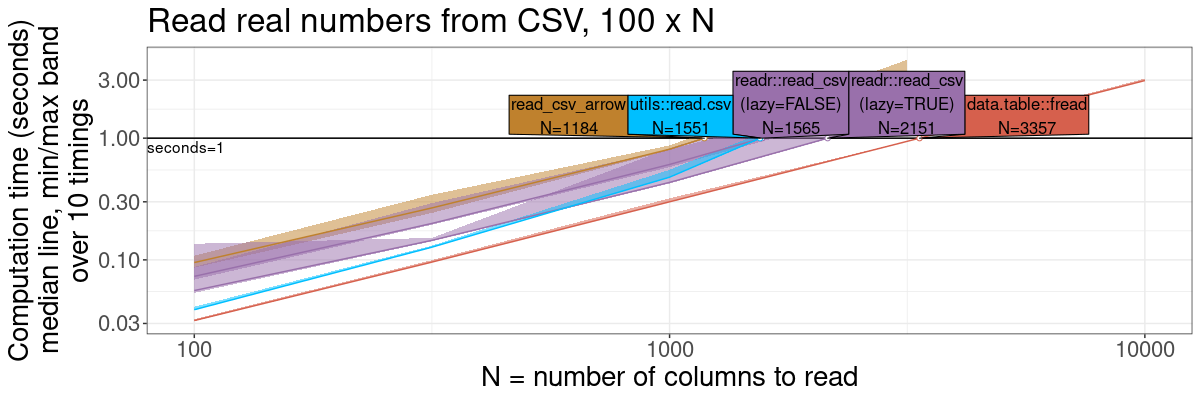
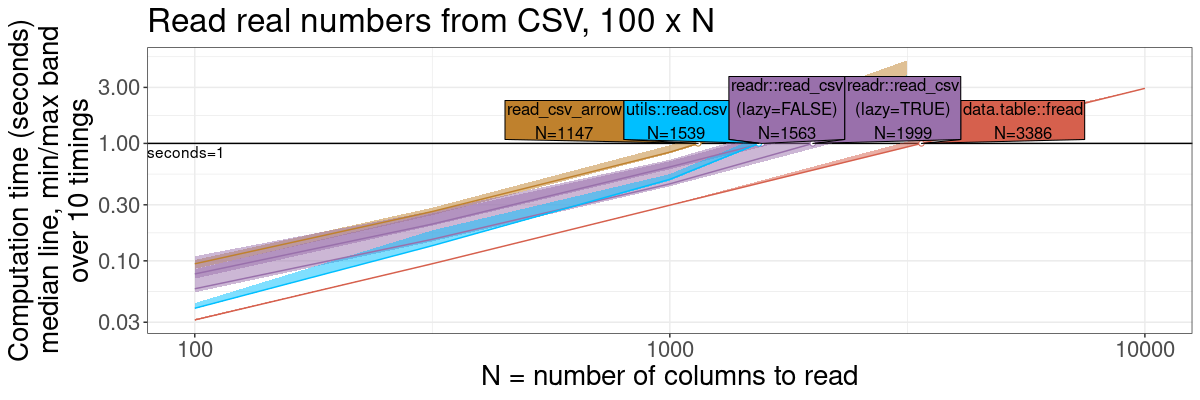
collapse comparison

diff --git a/_posts/2023-10-08-dt-atime-figures.md b/_posts/2023-10-08-dt-atime-figures.md
@@ -24,6 +24,7 @@ write.colors <- c(
   "utils::write.csv"="deepskyblue")
 n.rows <- 100
 seconds.limit <- 1
+
 atime.write.vary.cols <- atime::atime(
   N=as.integer(10^seq(2, 6, by=0.5)),
   setup={
@@ -43,6 +44,13 @@ atime.write.vary.cols <- atime::atime(
     readr::write_csv(input.df, tempfile(), progress = FALSE)
   },
   "utils::write.csv"=utils::write.csv(input.df, tempfile()))
+```
+
+```
+## Warning: Some expressions had a GC in every iteration; so filtering is disabled.
+```
+
+```r
 refs.write.vary.cols <- atime::references_best(atime.write.vary.cols)
 pred.write.vary.cols <- predict(refs.write.vary.cols)
 
@@ -74,24 +82,6 @@ gg.write
 ```
 
 ![plot of chunk write](/assets/img/2023-10-08-dt-atime-figures/write-1.png)
-
-```r
-png("2023-10-08-write.png", width=12, height=4, units="in", res=200)
-print(gg.write)
-```
-
-```
-## Warning: Transformation introduced infinite values in continuous x-axis
-```
-
-```r
-dev.off()
-```
-
-```
-## X11cairo 
-##        2
-```
 
 ### fread: fast CSV reader
 
@@ -130,8 +120,7 @@ atime.read.vary.cols <- atime::atime(
 ```
 
 ```
-## Warning: Some expressions had a GC in every iteration; so filtering is
-## disabled.
+## Warning: Some expressions had a GC in every iteration; so filtering is disabled.
 ```
 
 ```r
@@ -167,24 +156,6 @@ gg.read
 
 ![plot of chunk read](/assets/img/2023-10-08-dt-atime-figures/read-1.png)
 
-```r
-png("2023-10-08-read.png", width=12, height=4, units="in", res=200)
-print(gg.read)
-```
-
-```
-## Warning: Transformation introduced infinite values in continuous x-axis
-```
-
-```r
-dev.off()
-```
-
-```
-## X11cairo 
-##        2
-```
-
 ### Summarize by group
 
 
@@ -196,7 +167,7 @@ ml.colors <- c(
 options(dplyr.summarise.inform=FALSE)
 n.folds <- 10
 ml.atime <- atime::atime(
-  N=as.integer(10^seq(0, 7, by=0.5)),
+  N=as.integer(10^seq(2, 7, by=0.5)),
   setup={
     loss.dt <- data.table(
       name="loss", 
@@ -237,8 +208,7 @@ ml.atime <- atime::atime(
 ```
 
 ```
-## Warning: Some expressions had a GC in every iteration; so filtering is
-## disabled.
+## Warning: Some expressions had a GC in every iteration; so filtering is disabled.
 ```
 
 ```r
@@ -273,23 +243,118 @@ ml.gg
 
 ![plot of chunk summarize](/assets/img/2023-10-08-dt-atime-figures/summarize-1.png)
 
+### Summarize by group, expanded
+
+The previous section is simpler to explain, whereas this section is
+more comprehensive/fair, because it shows versions of `data.table`
+with and without key. Both versions are much faster than the
+competitors, though.
+
+
 ```r
-png("2023-10-08-summarize.png", width=12, height=4, units="in", res=200)
-print(ml.gg)
+options(dplyr.summarise.inform=FALSE)
+n.folds <- 10
+ml.exp.atime <- atime::atime(
+  N=as.integer(10^seq(2, 7, by=0.5)),
+  setup={
+    loss.dt <- data.table(
+      name="loss", 
+      fold=rep(1:n.folds, each=2*N),
+      loss=rnorm(2*N*n.folds),
+      set=rep(c("subtrain","validation"),each=N),
+      epoch=1:N)
+    key.dt <- data.table(loss.dt, key=c("set","epoch","fold"))
+  },
+  seconds.limit=seconds.limit,
+  "[.data.table(no key)"={
+    loss.dt[, .(
+      loss_length=.N,
+      loss_mean=mean(loss),
+      loss_sd=sd(loss)
+    ), by=.(set, epoch)]
+  },
+  "[.data.table(key)"={
+    key.dt[, .(
+      loss_length=.N,
+      loss_mean=mean(loss),
+      loss_sd=sd(loss)
+    ), by=.(set, epoch)]
+  },
+  "stats::aggregate"={
+    res <- stats::aggregate(
+      loss ~ set + epoch, 
+      loss.dt, 
+      function(values)list(c(
+        loss_length=length(values),
+        loss_mean=mean(values), 
+        loss_sd=sd(values))))
+    data.frame(
+      subset(res, select=-loss), 
+      do.call(rbind, res$loss))
+  },
+  "dplyr::summarise"={
+    loss.dt |> 
+      dplyr::group_by(set, epoch) |> 
+      dplyr::summarise(
+        loss_length=length(loss),
+        loss_mean=mean(loss), 
+        loss_sd=sd(loss))
+  },
+  "collapse::fsummarise"={
+    loss.dt |> 
+      collapse::fgroup_by(set, epoch) |> 
+      collapse::fsummarise(
+        loss_length=length(loss),
+        loss_mean=mean(loss), 
+        loss_sd=sd(loss))
+  })
+```
+
+```
+## Warning: Some expressions had a GC in every iteration; so filtering is disabled.
+
+## Warning: Some expressions had a GC in every iteration; so filtering is disabled.
+
+## Warning: Some expressions had a GC in every iteration; so filtering is disabled.
+```
+
+```r
+ml.exp.refs <- atime::references_best(ml.exp.atime)
+ml.exp.pred <- predict(ml.exp.refs)
+ml.exp.colors <- c(
+  "collapse::fsummarise"="#5AAE61",
+  "dplyr::summarise"="#9970AB",
+  "[.data.table(key)"="#D6604D",
+  "[.data.table(no key)"="#B6604D",
+  "stats::aggregate"="deepskyblue")
+ml.exp.gg <- plot(ml.exp.pred)+
+  theme(text=element_text(size=20))+
+  ggtitle(sprintf("Mean,SD,Length over %d real numbers, N times", n.folds))+
+  scale_x_log10("N = number of Mean,SD,Length to compute")+
+  scale_y_log10("Computation time (seconds)
+median line, min/max band
+over 10 timings")+
+  facet_null()+
+  scale_fill_manual(values=ml.exp.colors)+
+  scale_color_manual(values=ml.exp.colors)
+```
+
+```
+## Scale for x is already present.
+## Adding another scale for x, which will replace the existing scale.
+## Scale for y is already present.
+## Adding another scale for y, which will replace the existing scale.
+```
+
+```r
+ml.exp.gg
 ```
 
 ```
 ## Warning: Transformation introduced infinite values in continuous x-axis
 ```
 
-```r
-dev.off()
-```
-
-```
-## X11cairo 
-##        2
-```
+![plot of chunk summarize-exp](/assets/img/2023-10-08-dt-atime-figures/summarize-exp-1.png)
 
 ### version info
 
@@ -308,12 +373,10 @@ sessionInfo()
 ## LAPACK: /usr/lib/x86_64-linux-gnu/lapack/liblapack.so.3.10.0
 ## 
 ## locale:
-##  [1] LC_CTYPE=fr_FR.UTF-8       LC_NUMERIC=C              
-##  [3] LC_TIME=fr_FR.UTF-8        LC_COLLATE=fr_FR.UTF-8    
-##  [5] LC_MONETARY=fr_FR.UTF-8    LC_MESSAGES=fr_FR.UTF-8   
-##  [7] LC_PAPER=fr_FR.UTF-8       LC_NAME=C                 
-##  [9] LC_ADDRESS=C               LC_TELEPHONE=C            
-## [11] LC_MEASUREMENT=fr_FR.UTF-8 LC_IDENTIFICATION=C       
+##  [1] LC_CTYPE=fr_FR.UTF-8       LC_NUMERIC=C               LC_TIME=fr_FR.UTF-8       
+##  [4] LC_COLLATE=fr_FR.UTF-8     LC_MONETARY=fr_FR.UTF-8    LC_MESSAGES=fr_FR.UTF-8   
+##  [7] LC_PAPER=fr_FR.UTF-8       LC_NAME=C                  LC_ADDRESS=C              
+## [10] LC_TELEPHONE=C             LC_MEASUREMENT=fr_FR.UTF-8 LC_IDENTIFICATION=C       
 ## 
 ## time zone: America/Phoenix
 ## tzcode source: system (glibc)
@@ -325,20 +388,16 @@ sessionInfo()
 ## [1] ggplot2_3.4.3     arrow_13.0.0      readr_2.1.4       data.table_1.14.8
 ## 
 ## loaded via a namespace (and not attached):
-##  [1] bit_4.0.5              gtable_0.3.4           highr_0.10            
-##  [4] dplyr_1.1.2            compiler_4.3.1         crayon_1.5.2          
-##  [7] tidyselect_1.2.0       parallel_4.3.1         assertthat_0.2.1      
-## [10] tidyr_1.3.0            textshaping_0.3.6      systemfonts_1.0.4     
-## [13] scales_1.2.1           directlabels_2023.8.25 lattice_0.21-8        
-## [16] R6_2.5.1               labeling_0.4.3         generics_0.1.3        
-## [19] knitr_1.43             tibble_3.2.1           munsell_0.5.0         
-## [22] atime_2023.4.27        pillar_1.9.0           tzdb_0.3.0            
-## [25] rlang_1.1.1            utf8_1.2.3             xfun_0.40             
-## [28] quadprog_1.5-8         bit64_4.0.5            cli_3.6.1             
-## [31] withr_2.5.0            magrittr_2.0.3         grid_4.3.1            
-## [34] vroom_1.6.3            hms_1.1.3              lifecycle_1.0.3       
-## [37] vctrs_0.6.3            bench_1.1.3            evaluate_0.21         
-## [40] glue_1.6.2             farver_2.1.1           ragg_1.2.5            
-## [43] profmem_0.6.0          fansi_1.0.4            colorspace_2.1-0      
-## [46] purrr_1.0.2            tools_4.3.1            pkgconfig_2.0.3
+##  [1] bit_4.0.5              gtable_0.3.4           highr_0.10             dplyr_1.1.2           
+##  [5] compiler_4.3.1         crayon_1.5.2           Rcpp_1.0.11            tidyselect_1.2.0      
+##  [9] collapse_1.9.6         parallel_4.3.1         assertthat_0.2.1       scales_1.2.1          
+## [13] directlabels_2023.8.25 lattice_0.21-8         R6_2.5.1               generics_0.1.3        
+## [17] knitr_1.43             tibble_3.2.1           munsell_0.5.0          atime_2023.10.9       
+## [21] pillar_1.9.0           tzdb_0.3.0             rlang_1.1.1            utf8_1.2.3            
+## [25] xfun_0.40              quadprog_1.5-8         bit64_4.0.5            cli_3.6.1             
+## [29] withr_2.5.0            magrittr_2.0.3         grid_4.3.1             vroom_1.6.3           
+## [33] hms_1.1.3              lifecycle_1.0.3        vctrs_0.6.3            bench_1.1.3           
+## [37] evaluate_0.21          glue_1.6.2             farver_2.1.1           profmem_0.6.0         
+## [41] fansi_1.0.4            colorspace_2.1-0       purrr_1.0.2            tools_4.3.1           
+## [45] pkgconfig_2.0.3
 ```
